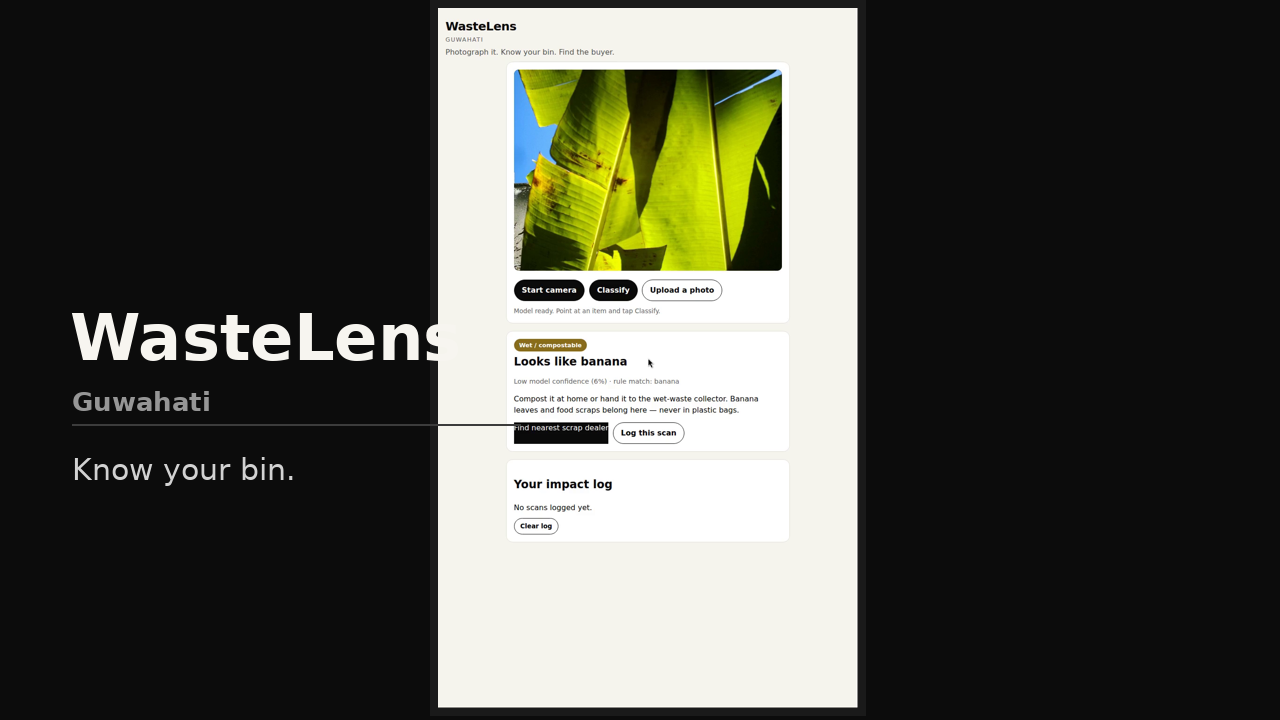
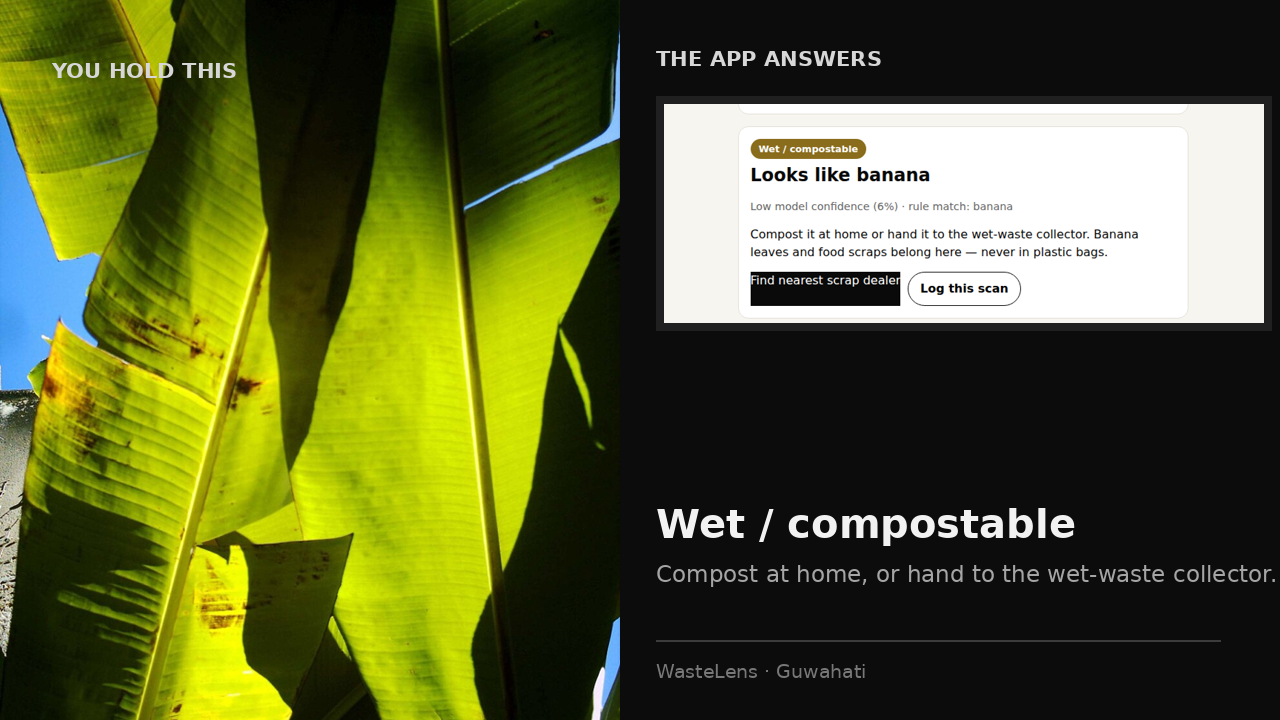
Rebuild thumbnail and product images with clean app captures

diff --git a/video/build_images.py b/video/build_images.py
@@ -1,0 +1,113 @@
+#!/usr/bin/env python3
+"""WasteLens thumbnail + product images: clean app captures, tight layout."""
+import os
+from PIL import Image, ImageDraw, ImageFont, ImageEnhance, ImageFilter
+
+HERE = os.path.dirname(os.path.abspath(__file__))
+CHROME_H = 150  # browser chrome height in the raw captures
+
+
+def font(sz, bold=True):
+    p = "/usr/share/fonts/truetype/dejavu/DejaVuSans%s.ttf" % ("-Bold" if bold else "")
+    try:
+        return ImageFont.truetype(p, sz)
+    except Exception:
+        return ImageFont.load_default()
+
+
+def cover(path, w, h, blur=0, dark=0.0):
+    im = Image.open(path).convert("RGB")
+    scale = max(w / im.width, h / im.height)
+    im = im.resize((int(im.width * scale), int(im.height * scale)))
+    im = im.crop(((im.width - w) // 2, (im.height - h) // 2,
+                  (im.width - w) // 2 + w, (im.height - h) // 2 + h))
+    if blur:
+        im = im.filter(ImageFilter.GaussianBlur(blur))
+    if dark:
+        im = ImageEnhance.Brightness(im).enhance(1 - dark)
+    return im
+
+
+def clean(path):
+    im = Image.open(path).convert("RGB")
+    return im.crop((0, CHROME_H, im.width, im.height))
+
+
+def frame(im, pad=10, colour=(32, 32, 32)):
+    f = Image.new("RGB", (im.width + pad * 2, im.height + pad * 2), colour)
+    f.paste(im, (pad, pad))
+    return f
+
+
+def thumbnail():
+    W, H = 1280, 720
+    bg = cover(os.path.join(HERE, "../test-bottle.png"), W, H, blur=8, dark=0.62)
+    d = ImageDraw.Draw(bg)
+    d.rounded_rectangle((56, 76, 700, 644), radius=20, fill=(10, 10, 10))
+    d.text((92, 132), "WasteLens", font=font(98), fill=(247, 245, 240))
+    d.text((96, 252), "GUWAHATI", font=font(26), fill=(165, 165, 165))
+    d.line([(96, 300), (580, 300)], fill=(75, 75, 75), width=3)
+    d.text((96, 334), "Point your phone.", font=font(42, False), fill=(240, 240, 240))
+    d.text((96, 390), "Know your bin.", font=font(42, False), fill=(240, 240, 240))
+    d.text((96, 548), "On-device waste classification.\nNo image ever leaves the phone.",
+           font=font(24, False), fill=(180, 180, 180))
+
+    shot = clean(os.path.join(HERE, "shot-bottle.png"))
+    shot.thumbnail((330, 660))
+    bg.paste(frame(shot), (820, 30))
+    bg.save(os.path.join(HERE, "thumbnail.png"))
+
+
+def product(photo, shot, out, title, sub):
+    W, H = 1280, 720
+    bg = Image.new("RGB", (W, H), (12, 12, 12))
+    bg.paste(cover(photo, 620, H), (0, 0))
+    d = ImageDraw.Draw(bg)
+    d.text((52, 58), "YOU HOLD THIS", font=font(21), fill=(215, 215, 215))
+
+    app = clean(shot)
+    card = app.crop((46, 655, 856, 950))
+    card.thumbnail((600, 400))
+    bg.paste(frame(card, 8), (656, 96))
+    d = ImageDraw.Draw(bg)
+    d.text((656, 46), "THE APP ANSWERS", font=font(21), fill=(215, 215, 215))
+    d.text((656, 500), title, font=font(40), fill=(242, 242, 242))
+    d.text((656, 560), sub, font=font(23, False), fill=(165, 165, 165))
+    d.line([(656, 640), (1220, 640)], fill=(60, 60, 60), width=2)
+    d.text((656, 660), "WasteLens · Guwahati", font=font(19, False), fill=(120, 120, 120))
+    bg.save(os.path.join(HERE, out))
+
+
+def how_it_works():
+    W, H = 1280, 720
+    bg = Image.new("RGB", (W, H), (12, 12, 12))
+    d = ImageDraw.Draw(bg)
+    d.text((64, 56), "How it works", font=font(56), fill=(247, 245, 240))
+    d.line([(66, 138), (1216, 138)], fill=(70, 70, 70), width=3)
+
+    steps = [
+        ("1", "Photograph", "Point at any\nhousehold item."),
+        ("2", "Classify on-device", "MobileNet runs\nlocally. No upload."),
+        ("3", "Know your stream", "Dry, wet, hazardous\nor landfill."),
+        ("4", "Find the buyer", "Nearest scrap dealer\non the map."),
+    ]
+    x = 64
+    for n, t, s in steps:
+        d.rounded_rectangle((x, 200, x + 272, 600), radius=18, fill=(20, 20, 20))
+        d.text((x + 26, 232), n, font=font(42), fill=(247, 245, 240))
+        d.text((x + 26, 300), t, font=font(21), fill=(235, 235, 235))
+        d.text((x + 26, 384), s, font=font(19, False), fill=(160, 160, 160))
+        x += 296
+    d.text((64, 654), "No account.  No server.  No analytics.",
+           font=font(22, False), fill=(125, 125, 125))
+    bg.save(os.path.join(HERE, "product-how.png"))
+
+
+if __name__ == "__main__":
+    thumbnail()
+    product(os.path.join(HERE, "../test-bottle.png"), os.path.join(HERE, "shot-bottle.png"),
+            "product-bottle.png", "Dry recyclable", "Sell to a scrap dealer, or use the dry-waste bin.")
+    product(os.path.join(HERE, "../test-leaf.png"), os.path.join(HERE, "shot-leaf.png"),
+            "product-leaf.png", "Wet / compostable", "Compost at home, or hand to the wet-waste collector.")
+    how_it_works()
+    print("images rebuilt")
